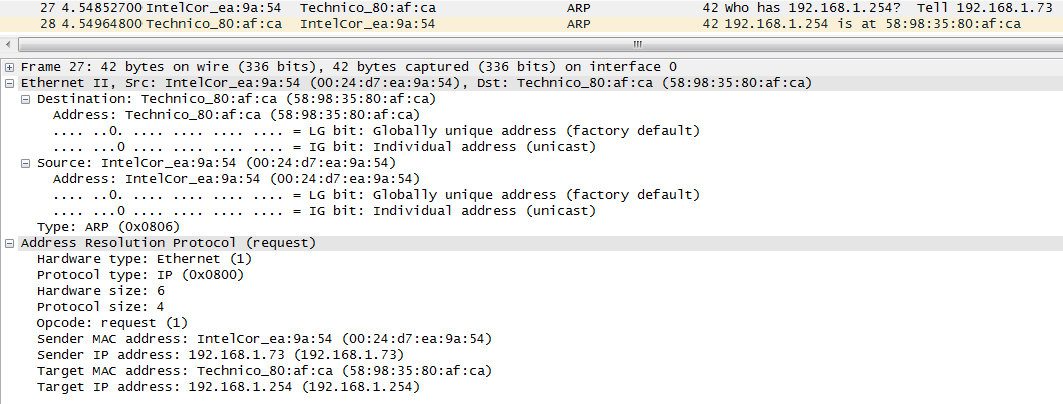
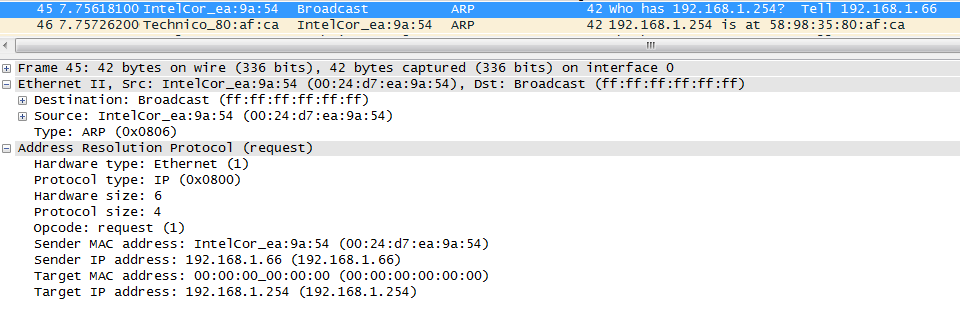
Lab5 updates

diff --git a/lab5/index.html b/lab5/index.html
@@ -32,20 +32,21 @@
     </p>
 
     <h4>ARP </h4>
-    <p>
-        Milliste protokollide päiseid ARP paketid sisaldavad? eth:ethertype:arp <br />
+    <p>Milliste protokollide päiseid ARP paketid sisaldavad? eth:ethertype:arp </p>
 
-    <p>Millisele aadressile saadetakse ARP päring? 192.168.1.254</p>
+    <p>Millisele aadressile saadetakse ARP päring? FF:FF:FF:FF:FF:FF</p>
 
-    <p>Milliselt aadressilt tuleb ARP vastus? 192.168.1.254</p>
+    <p>Milliselt aadressilt tuleb ARP vastus? 58:98:35:30:af:ca</p>
 
     <p>Milline on ARP pakettide sisu? Millisele MAC aadressile vastab IP</p>
 
     <p>
         Ekraanipilt Wiresharki keskmisest aknast, kus näha dekodeeritud kujul ARP päringu paketis EthernetII ja ARP osa
-        ning teine ekraanipilt Wiresharki keskmisest aknast, kus näha ARP vastuse paketis dekodeeritud EthernetII ja ARP osa.
-
         <img src="arp_wireshark.png" alt="ARP protokolli kuvatõmmis" />
+
+        <br />
+        ning teine ekraanipilt Wiresharki keskmisest aknast, kus näha ARP vastuse paketis dekodeeritud EthernetII ja ARP osa.
+        <img src="arp_wireshark2.png" alt="ARP protokolli kuvatõmmis" />
     </p>
 
     <h4>IP</h4>
@@ -91,7 +92,7 @@
         Ekraanipilt ping päringu ja ping vastuse pakettidest Wiresharki keskmises aknas, (kus kõik plussid kinni).<br />
 
         <img src="icmp_examplecom_request.png" alt="Request" />
-        <img src="icmp_examplecom_response.png" alt="Request" />
+        <img src="icmp_examplecom_response.png" alt="Response" />
     </p>
 
     <h4>UDP, DNS</h4>
@@ -151,7 +152,7 @@
 
     <p>Kuidas TCP seanssi alustatakse (3 esimest paketti)? SYN, SYN-ACK, ACK</p>
 
-    <p>Kuidas TCP seanssi lõpetatakse (4 viimast paketti)?</p>
+    <p>Kuidas TCP seanssi lõpetatakse (4 viimast paketti)? FIN, ACK, FIN, ACK</p>
 
     <img src="www_wireshark.png" alt="Salvestada Wiresharki ekraanipilt ühest paketist, kus keskmises aknas on TCP osa lahti." />
 
@@ -181,7 +182,7 @@
         </tr>
         <tr>
             <td>Keskmine RTT</td>
-            <td>275</td>
+            <td>150 ms</td>
             <td></td>
         </tr>
         <tr><td colspan=3>Wiresharkist leida:</td></tr>
@@ -210,7 +211,8 @@
 
     <img src="size_wireshark.png" alt="Salvestada Wiresharki ekraanipilt, kus peal ülemises aknas üks päring koos fragmentidega ja üks vastus fragmentidega (iga pakett on üks rida)." />
     <p>
-        Kokku edastatakse 2042 baiti, millest 2000 baiti on kasulikud. 2000/2042 = 97,94%
+        Koos fragmentidega edastatakse juhtmes iga paketiga 2076 baiti, millest 2000 on kasulik informatsioon. 2000/2076 = 96,33%<br />
+        Edastuskiirus: 2076 baiti edastamiseks edasi-tagasi kulus keskmiselt 150ms, mis teeb keskmiseks edastuskiiruseks 13840 baiti sekundis.
     </p>
 
     <h2>Kokkuvõte ja järeldused</h2>
